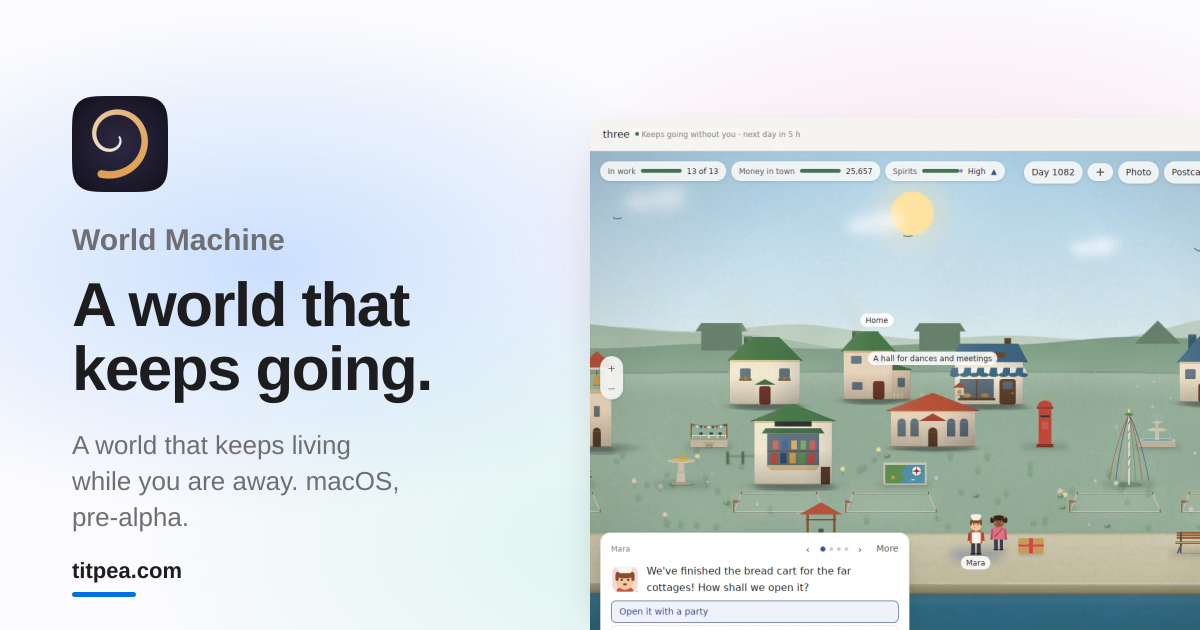
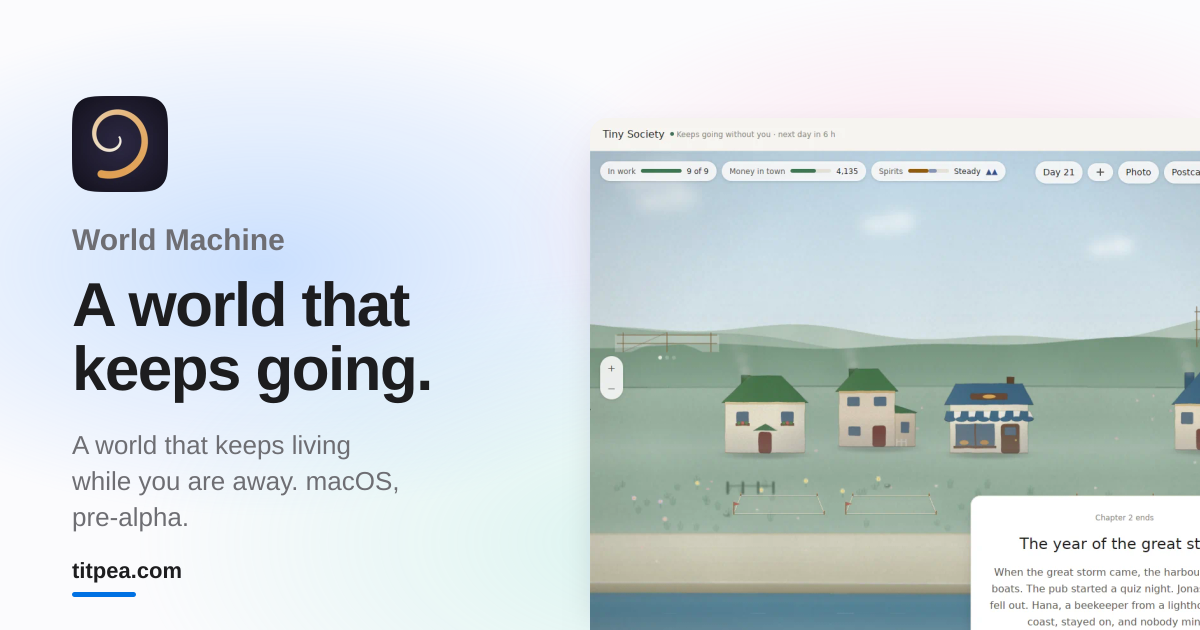
Pulse v28, World Machine v0.25, s3-turbo-list v0.39, Agent Radar v0.26; versioned asset URLs (#181)
* Version /assets/ URLs by content hash

Icons and screenshots are often replaced under the same file name (Bilingual's
icon today), so a browser or the CDN could keep the old image. After the
build, every /assets/ reference in the built pages and feed gets
?v=<first 10 hex of the file's SHA-256>; the URL changes exactly when the
bytes do. AGENTS.md notes it.

Claude-Session: https://claude.ai/code/session_01JmaFxrCaTr7J8dy17sm4dB

* s3-turbo-list v0.39 and Agent Radar v0.26

- s3-turbo-list: doctor output recaptured from the SHA256-verified v0.39.0
  release binary (only binary_version changed); the resume FAQ adds that
  --start-after runs do not checkpoint, as the README says.
- Agent Radar: the model FAQ gives v0.26's pinned route cost (about $2.6 a
  month against the $4 budget) and pinned fallbacks; the init capture is
  unchanged in 0.26 and keeps its label.

Claude-Session: https://claude.ai/code/session_01JmaFxrCaTr7J8dy17sm4dB

* World Machine v0.25

- Hero from the v0.25 review capture: day 21 at noon in the new hand-made
  look, a chapter closing on the year of the great storm. New showcase: the
  window darkens after nightfall (v25-night).
- Compatibility FAQ: v0.25 opens Worlds from v0.20–v0.24; the previous
  save is kept as .world.bak; a file from a newer app opens read-only.
- Share a World: codes are size-limited and checked.
- Agent FAQ: the API key stays in the login keychain and is never handed
  to a Pack.
[…]

diff --git a/src/content/products/pulse.ts b/src/content/products/pulse.ts
@@ -39,7 +39,8 @@ export default defineProduct({
       headerStatus: "1 needs you · 1 running · 1 your turn",
       sections: [
         {
-          // One list in lamp order, no group headings (Pulse 26 tray).
+          // One list in lamp order, no group headings; only waiting, stalled and
+          // running rows have a second line (Pulse 28 tray).
           rows: [
             {
               title: "Add a package · Claude",
@@ -55,19 +56,19 @@ export default defineProduct({
             },
             {
               title: "Review failing CI · Codex",
-              meta: "~/code/titpea · 1m ago",
+              meta: "titpea · 1m ago",
               state: "recent",
               chip: "Your turn",
             },
             {
-              title: "Pi",
-              meta: "Process only · no hook event yet",
+              title: "Terminal session running · Pi",
+              meta: "Started before Pulse — details after its next step",
               state: "process",
             },
           ],
         },
       ],
-      footnotes: ["hook events · processes", "↩ Go to terminal, or Open app"],
+      footnotes: ["hook events · processes", "Click a row to go · › for details"],
     },
     sections: [
       {
@@ -80,7 +81,7 @@ export default defineProduct({
           { title: "Last step, turn time", body: "Running rows show the latest tool step and the turn's length." },
           { title: "Orange means stalled", body: "Twenty minutes without news; the row names the last step." },
           { title: "Seven agents, own hooks", body: "Five turn red; Codex and Cursor show running and your turn." },
-          { title: "Back to the session", body: "Go to terminal when the pane is known; otherwise Open app." },
+          { title: "Click to go", body: "Its terminal when known, else the app; › shows details." },
         ],
       },
       {
@@ -90,7 +91,7 @@ export default defineProduct({
         items: [
           "State comes only from each agent's own hooks; Pulse reads no session files, transcripts or protected app data.",
           "The event log keeps each prompt redacted and cut to 200 characters, in a file only you can read, on this Mac.",
-          "Update checks read the public GitHub releases anonymously and open the release page.",
+          "Update checks ask GitHub anonymously for the latest public release and open its page.",
         ],
       },
       {
@@ -100,15 +101,23 @@ export default defineProduct({
         items: [
           {
             title: "Which agents show waiting?",
-            body: "Five: Claude Code, Gemini CLI, Copilot CLI, OpenCode and Pi, through the hook, plugin or extension each vendor documents. Codex and Cursor show running and your turn only, and say they do not report waiting. Install them from the setup card on first open or in Settings → Hooks; for Codex, Pulse writes only `~/.codex/hooks.json`, then you run `/hooks` in Codex to trust it. Only observe-only events are added, and removing them restores each file byte for byte. A session that started before Pulse shows as process only until its next step.",
+            body: "Five: Claude Code, Gemini CLI, Copilot CLI, OpenCode and Pi, through the hook, plugin or extension each vendor documents. Codex and Cursor show running and your turn only, and say they do not report waiting. Install them from the setup card on first open or in Settings → Hooks; for Codex, Pulse writes only `~/.codex/hooks.json`, then you run `/hooks` in Codex to trust it. Only observe-only events are added, and removing them restores each file byte for byte; a file changed since then loses only Pulse's entries. A session that started before Pulse shows as process only until its next step.",
           },
           {
             title: "Why is an agent not turning red?",
-            body: "Open Settings → Hooks. Each agent on this Mac has a row: whether its hook is installed (or why it failed) and how long ago its last event arrived. Copy report gives the same as plain text, without paths, prompts or sessions.",
+            body: "Open Settings → Hooks. Each agent on this Mac has a row: whether its hook is installed (or why it failed) and how long ago its last event arrived, with its own Install or Remove button. Copy report gives the same as plain text, without paths, prompts or sessions.",
+          },
+          {
+            title: "Does Dismiss answer the agent?",
+            body: "No. Dismiss on the banner, like ⌘D in the tray, only stops Pulse reminding you of that wait and withdraws the banner. The prompt still waits in the agent's own window, and Pulse stays in the background.",
           },
           {
             title: "Why does macOS block the first open?",
-            body: "Current builds are ad-hoc signed, so the first open may need Open from the context menu, or clearing quarantine with xattr.",
+            body: "Current builds are ad-hoc signed and not notarized. Click Open Anyway in System Settings → Privacy & Security, or clear quarantine with `xattr -dr com.apple.quarantine /Applications/Pulse.app`. Since macOS 15, Control-click Open no longer lets it through.",
+          },
+          {
+            title: "How do I remove Pulse?",
+            body: "Settings → Uninstall Pulse… lists what it will remove, then takes out every agent's Pulse hooks, the login item and `~/Library/Application Support/Pulse`, quits, and shows Pulse.app in Finder for you to drag to the Trash. If a hook cannot be removed, it stops and deletes nothing.",
           },
         ],
       },
@@ -157,19 +166,19 @@ export default defineProduct({
             },
             {
               title: "查看失败的 CI · Codex",
-              meta: "~/code/titpea · 1 分钟前",
+              meta: "titpea · 1 分钟前",
               state: "recent",
               chip: "轮到你",
             },
             {
-              title: "Pi",
-              meta: "仅进程 · 还没有 hook 事件",
+              title: "终端会话正在运行 · Pi",
+              meta: "在 Pulse 之前启动——下一步之后显示详情",
               state: "process",
             },
           ],
         },
       ],
-      footnotes: ["hook 事件 · 进程", "↩ 前往终端，或打开应用"],
+      footnotes: ["hook 事件 · 进程", "点一行前往 · 点「›」看详情"],
     },
     sections: [
       {
@@ -182,7 +191,7 @@ export default defineProduct({
           { title: "上一步与本回合", body: "运行中的行写出最近一步工具，和这一回合跑了多久。" },
           { title: "橙色表示停滞", body: "二十分钟没有新动静，行上点名上一步。" },
           { title: "七个 Agent", body: "五个会亮红；Codex 与 Cursor 只报运行和轮到你。" },
-          { title: "回到原会话", body: "能精确落点时「前往终端」，否则「打开应用」。" },
+          { title: "点一下就去", body: "能精确落点就去终端，否则打开应用；点「›」看详情。" },
         ],
       },
       {
@@ -192,7 +201,7 @@ export default defineProduct({
         items: [
           "状态只来自各 Agent 自己的 hook；Pulse 不读取会话文件、transcript 或受 macOS 保护的应用数据。",
           "事件日志里的提示已脱敏、至多 200 字，文件只有你能读，只在本机。",
-          "更新检查以匿名请求读取公开的 GitHub Release，有新版本时打开发布页。",
+          "更新检查以匿名请求向 GitHub 询问最新的公开版本，有新版本时打开发布页。",
         ],
       },
       {
@@ -202,15 +211,23 @@ export default defineProduct({
         items: [
           {
             title: "哪些 Agent 能显示等待？",
-            body: "五个：Claude Code、Gemini CLI、Copilot CLI、OpenCode 和 Pi，走各家文档里的 hook、插件或扩展。Codex 与 Cursor 只显示运行中和轮到你，并注明不会报告它在等你。首次打开时在托盘的设置卡里连接，或在「设置 → Hooks」安装；Codex 只写入 `~/.codex/hooks.json`，之后在 Codex 里运行 `/hooks` 信任 Pulse。只装观察型事件，移除时逐字节还原每个文件。Pulse 启动前就在跑的会话，在它的下一步之前只显示为「仅进程」。",
+            body: "五个：Claude Code、Gemini CLI、Copilot CLI、OpenCode 和 Pi，走各家文档里的 hook、插件或扩展。Codex 与 Cursor 只显示运行中和轮到你，并注明不会报告它在等你。首次打开时在托盘的设置卡里连接，或在「设置 → Hooks」安装；Codex 只写入 `~/.codex/hooks.json`，之后在 Codex 里运行 `/hooks` 信任 Pulse。只装观察型事件，移除时逐字节还原每个文件；之后改过的文件只删掉 Pulse 的条目。Pulse 启动前就在跑的会话，在它的下一步之前只显示为「仅进程」。",
           },
           {
             title: "Agent 为什么没亮红灯？",
-            body: "打开「设置 → Hooks」。这台 Mac 上的每个 Agent 一行：hook 装没装（装失败会写原因）、最近一次事件是多久前。「复制报告」给出同样内容的纯文本，不含路径、提示或会话。",
+            body: "打开「设置 → Hooks」。这台 Mac 上的每个 Agent 一行：hook 装没装（装失败会写原因）、最近一次事件是多久前，各带自己的「安装」或「移除」。「复制报告」给出同样内容的纯文本，不含路径、提示或会话。",
+          },
+          {
+            title: "横幅上的「忽略」会替我回答吗？",
+            body: "不会。横幅上的「忽略」和托盘里的 ⌘D 一样，只让 Pulse 不再提醒这个等待，并撤回横幅。提示仍在 Agent 自己的窗口里等着，Pulse 也不会跳到前台。",
           },
           {
             title: "为什么首次打开被 macOS 拦下？",
-            body: "当前构建是 ad-hoc 签名，首次打开可能要右键选「打开」，或用 xattr 清掉隔离属性。",
+            body: "当前构建是 ad-hoc 签名、未公证。在「系统设置 → 隐私与安全性」里点「仍要打开」，或用 `xattr -dr com.apple.quarantine /Applications/Pulse.app` 清掉隔离属性。macOS 15 起，右键选「打开」已不能放行。",
+          },
+          {
+            title: "怎样卸载 Pulse？",
+            body: "「设置 → 卸载 Pulse…」先列出要移除的东西。确认后，它移除每个 Agent 的 Pulse hook、登录项和 `~/Library/Application Support/Pulse`。然后它退出，并在访达里显示 Pulse.app，由你拖进废纸篓。有 hook 移除不了时，它会停下，什么都不删。",
           },
         ],
       },

diff --git a/src/content/products/world-machine.ts b/src/content/products/world-machine.ts
@@ -49,7 +49,7 @@ export default defineProduct({
       frame: "wide",
       image: {
         src: "/assets/world-machine-noon.webp",
-        alt: "World Machine on day 1,082 of a Tiny Society town at noon: gauges for work, money in town and spirits, the harbour street with its shops and plots, and Mara asking how to open the new bread cart. Captured from the app running in its Linux preview.",
+        alt: "Tiny Society on day 21 at noon, drawn with hand-inked outlines: gauges for work, money in town and spirits, four houses and a shop above the harbour with two staked plots, and a card saying chapter 2, The year of the great storm, has ended. Captured from the app running in its Linux preview.",
         width: 1100,
         height: 900,
       },
@@ -71,6 +71,14 @@ export default defineProduct({
         title: "Moments become panels.",
         body: "Weddings, births and farewells, drawn before, during and after.",
       },
+      {
+        src: "/assets/world-machine-night.webp",
+        width: 1100,
+        height: 900,
+        alt: "The same Tiny Society harbour on day 21 at night: lit windows under a dark blue sky, and the gauges, buttons and chapter card all turned dark to match. Captured from the app running in its Linux preview.",
+        title: "After dark, the window goes dark.",
+        body: "Cards, buttons and gauges never outshine the night sky.",
+      },
     ],
     sections: [
       {
@@ -84,7 +92,7 @@ export default defineProduct({
           { title: "Designs and names", body: "Paint a flag or a sail; name boats and babies." },
           { title: "Talk to anyone", body: "People understand everyday phrasing, in English or Chinese." },
           { title: "Agent-ready", body: "Let a local agent like Pi, or your key, drive it." },
-          { title: "Share a World", body: "Read-only World codes; a friend's resident can visit." },
+          { title: "Share a World", body: "Size-limited, checked World codes; a friend's resident can visit." },
         ],
       },
       {
@@ -106,7 +114,7 @@ export default defineProduct({
         items: [
           {
             title: "Is it stable?",
-            body: "No. World Machine is an experimental pre-alpha. Releases v0.20 to v0.24 each open Worlds saved by the release before, but a World saved by an older Pack version may not open; nothing is deleted, and the file keeps its whole history.",
+            body: "No. World Machine is an experimental pre-alpha. v0.25 opens and plays on Worlds saved by v0.20 to v0.24, but a World saved by an older Pack version may not open; nothing is deleted, and the file keeps its whole history. Each save keeps the previous one as `<name>.world.bak`, and a file written by a newer app opens read-only and is never saved over.",
           },
           {
             title: "How do I open it the first time?",
@@ -118,7 +126,7 @@ export default defineProduct({
           },
           {
             title: "Can an agent drive it?",
-            body: "Yes, if you want. People choose from actions the World offers through one agent interface, and a local agent such as Pi can make those choices. With World voice on in Settings, a local agent or your own API key also tells you what happened while you were away and answers the people you talk to. Pi runs with no tools, extensions or session, and every decision is recorded, so replaying a World never asks the agent again.",
+            body: "Yes, if you want. People choose from actions the World offers through one agent interface, and a local agent such as Pi can make those choices. With World voice on in Settings, a local agent or your own API key also tells you what happened while you were away and answers the people you talk to. Your API key stays in your login keychain and is never handed to a Pack. Pi runs with no tools, extensions or session, and every decision is recorded, so replaying a World never asks the agent again.",
           },
           {
             title: "Do people understand everything I type?",
@@ -157,7 +165,7 @@ export default defineProduct({
       frame: "wide",
       image: {
         src: "/assets/world-machine-noon.webp",
-        alt: "World Machine 里 Tiny Society 小镇的第 1082 天正午：工作、镇上的钱与心气三个指标，港口街道上的店铺和空地，Mara 在问新面包车怎么开张。截自应用在 Linux 预览环境中的运行画面，界面为英文。",
+        alt: "Tiny Society 第 21 天正午，线条像手绘墨线：工作、镇上的钱与心气三个指标，港口上方四栋房子和一家店，两块插着小旗的空地。一张卡片写着第 2 章「The year of the great storm」已结束。截自应用在 Linux 预览环境中的运行画面，界面为英文。",
         width: 1100,
         height: 900,
       },
@@ -179,6 +187,14 @@ export default defineProduct({
         title: "大事画成三格",
         body: "婚礼、出生、告别，画成之前、当时、之后。",
       },
+      {
+        src: "/assets/world-machine-night.webp",
+        width: 1100,
+        height: 900,
+        alt: "同一座 Tiny Society 港口第 21 天的夜里：深蓝夜空下窗里亮着灯，指标、按钮和章节卡片也都随之变暗。截自应用在 Linux 预览环境中的运行画面，界面为英文。",
+        title: "天黑了，窗口也暗下来",
+        body: "卡片、按钮和指标都不会比夜空更亮。",
+      },
     ],
     sections: [
       {
@@ -192,7 +208,7 @@ export default defineProduct({
           { title: "设计与命名", body: "画旗帜或船帆，给船和新生儿起名。" },
           { title: "和谁都能聊", body: "听得懂日常说法，中文英文都行。" },
           { title: "可接 Agent", body: "本机 Agent（如 Pi）或你自己的密钥，都能驱动它。" },
-          { title: "分享一个世界", body: "World 代码只读打开；朋友的居民能来做客。" },
+          { title: "分享一个世界", body: "World 代码有大小上限并经检查；朋友的居民能来做客。" },
         ],
       },
       {
@@ -214,7 +230,7 @@ export default defineProduct({
         items: [
           {
             title: "现在稳定吗？",
-            body: "不稳定。World Machine 是实验性的早期预览版。v0.20 到 v0.24 每一版都能打开上一版保存的世界，但更旧的 Pack 版本保存的世界可能打不开；文件不会被删除，完整历史仍在其中。",
+            body: "不稳定。World Machine 是实验性的早期预览版。v0.25 能打开 v0.20 到 v0.24 保存的世界并继续运行，但更旧的 Pack 版本保存的世界可能打不开；文件不会被删除，完整历史仍在其中。每次保存都会把上一份留作 `<name>.world.bak`；由更新版本应用写入的文件会以只读方式打开，绝不会被覆盖。",
           },
           {
             title: "第一次怎么打开？",
@@ -226,7 +242,7 @@ export default defineProduct({
           },
           {
             title: "能让 Agent 来驱动吗？",
-            body: "可以，看你需要。居民通过统一的 Agent 接口，从世界给出的行动里做选择，本机 Agent（如 Pi）可以替他们选。在设置里打开世界之声后，本机 Agent 或你自己的 API 密钥还会讲述你离开时发生的事，并替居民回答你。Pi 运行时不带工具、扩展和会话；每个决定都会记录下来，回放世界时不会再问 Agent。",
+            body: "可以，看你需要。居民通过统一的 Agent 接口，从世界给出的行动里做选择，本机 Agent（如 Pi）可以替他们选。在设置里打开世界之声后，本机 Agent 或你自己的 API 密钥还会讲述你离开时发生的事，并替居民回答你。你的 API 密钥保存在登录钥匙串中，从不交给任何 Pack。Pi 运行时不带工具、扩展和会话；每个决定都会记录下来，回放世界时不会再问 Agent。",
           },
           {
             title: "我打的每句话都能听懂吗？",

diff --git a/src/content/products/s3-turbo-list.ts b/src/content/products/s3-turbo-list.ts
@@ -37,7 +37,7 @@ export default defineProduct({
         {
           comment: "Local preflight — no S3 access",
           command: "s3-turbo-list doctor",
-          capturedOutput: `OK    binary_version: 0.38.0
+          capturedOutput: `OK    binary_version: 0.39.0
 OK    working_directory: /tmp/inventory
 OK    config_parse: resolved configuration is valid TOML/CLI state
 OK    config_file: no config file (searched ./s3-turbo-list.toml and ~/.s3-turbo-list.toml); built-in defaults apply
@@ -156,7 +156,7 @@ Doctor status: ok`,
           },
           {
             title: "Can an interrupted run pick up where it stopped?",
-            body: "Yes. Every interrupted `list` run saves a checkpoint on Ctrl-C or SIGTERM. Run it again with `--resume` and the same `--output-dir`, and it lists only the key ranges not yet written; that output covers only those ranges, so combine it with the interrupted run’s. A crash leaves the previous checkpoint unchanged, and `diff` runs do not checkpoint.",
+            body: "Yes. Every interrupted `list` run saves a checkpoint on Ctrl-C or SIGTERM. Run it again with `--resume` and the same `--output-dir`, and it lists only the key ranges not yet written; that output covers only those ranges, so combine it with the interrupted run’s. A crash leaves the previous checkpoint unchanged, and `diff` and `--start-after` runs do not checkpoint.",
           },
         ],
       },
@@ -188,7 +188,7 @@ Doctor status: ok`,
         {
           comment: "本地预检，不访问 S3",
           command: "s3-turbo-list doctor",
-          capturedOutput: `OK    binary_version: 0.38.0
+          capturedOutput: `OK    binary_version: 0.39.0
 OK    working_directory: /tmp/inventory
 OK    config_parse: resolved configuration is valid TOML/CLI state
 OK    config_file: no config file (searched ./s3-turbo-list.toml and ~/.s3-turbo-list.toml); built-in defaults apply
@@ -305,7 +305,7 @@ Doctor status: ok`,
           },
           {
             title: "中断的任务能接着跑吗？",
-            body: "能。每次中断的 `list` 运行都会在 Ctrl-C 或 SIGTERM 时保存 checkpoint。用同一个 `--output-dir` 加上 `--resume` 再跑一次，只列举尚未写出的 key 范围；续跑的输出只含这些范围，需要与中断那次的输出合并。进程崩溃时保留上一次的 checkpoint，`diff` 运行不保存 checkpoint。",
+            body: "能。每次中断的 `list` 运行都会在 Ctrl-C 或 SIGTERM 时保存 checkpoint。用同一个 `--output-dir` 加上 `--resume` 再跑一次，只列举尚未写出的 key 范围；续跑的输出只含这些范围，需要与中断那次的输出合并。进程崩溃时保留上一次的 checkpoint，`diff` 和 `--start-after` 运行不保存 checkpoint。",
           },
         ],
       },

diff --git a/src/content/products/agent-radar.ts b/src/content/products/agent-radar.ts
@@ -107,7 +107,7 @@ export default defineProduct({
         items: [
           {
             title: "Does it need paid search?",
-            body: "No. Collection uses free public source lanes. You configure the model route; the pinned route runs GPT-5 Mini to screen and draft, priced against a $4 monthly budget.",
+            body: "No. Collection uses free public source lanes. You configure the model route; the pinned route runs GPT-5 Mini to screen and draft, about $2.6 a month against a $4 budget, with fallback models pinned in the workflow.",
           },
           {
             title: "Where does it run?",
@@ -217,7 +217,7 @@ export default defineProduct({
         items: [
           {
             title: "需要付费搜索吗？",
-            body: "不需要。采集走免费公开源。模型路线由你配置；固定路线用 GPT-5 Mini 筛选和起草，按每月 4 美元预算核算。",
+            body: "不需要。采集走免费公开源。模型路线由你配置；固定路线用 GPT-5 Mini 筛选和起草，每月约 2.6 美元，预算为 4 美元；备用模型也固定在工作流里。",
           },
           {
             title: "在哪里运行？",

diff --git a/AGENTS.md b/AGENTS.md
@@ -31,6 +31,8 @@ Settled design decisions in DESIGN.md (for example the Omni home) are the owner'
 5. `npm run assets:og <slug>` renders its share image.
 6. New or replaced screenshots: save as WebP, then `npm run assets:images` writes the `-900w.webp` and `-1200w.webp` variants that `srcset` uses.
 
+Replacing an image under the same file name is fine: the build appends `?v=<content hash>` to every `/assets/` URL (`src/integrations/asset-versions.mjs`), so browsers and the CDN fetch the new bytes.
+
 A new hero object is the only case that needs a component: add a `kind` to `Visual` in `schema.ts` and a file in `components/product/visuals/`.
 
 ## After copy, layout, or style changes
